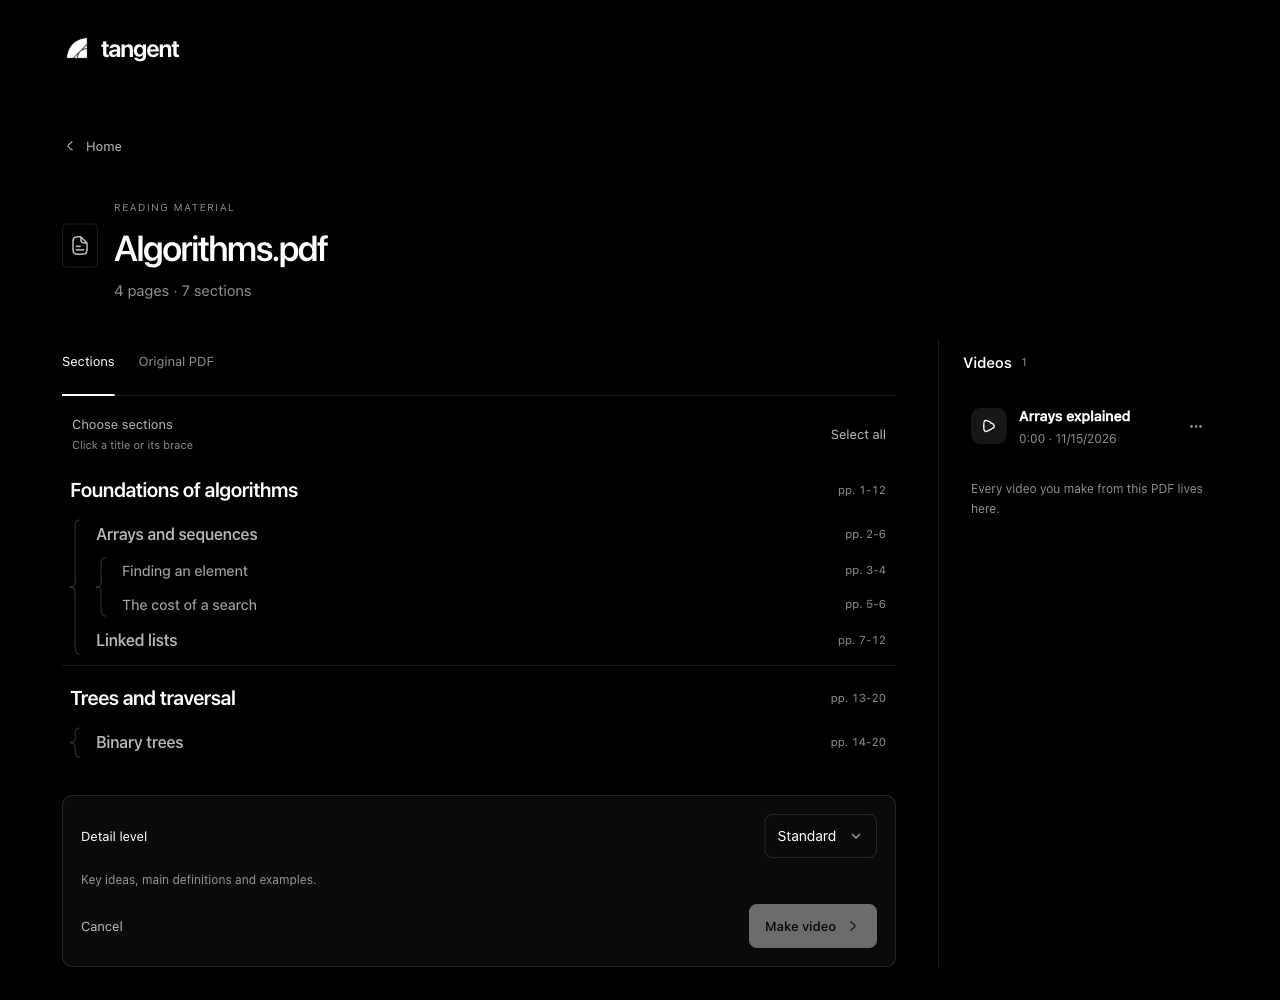
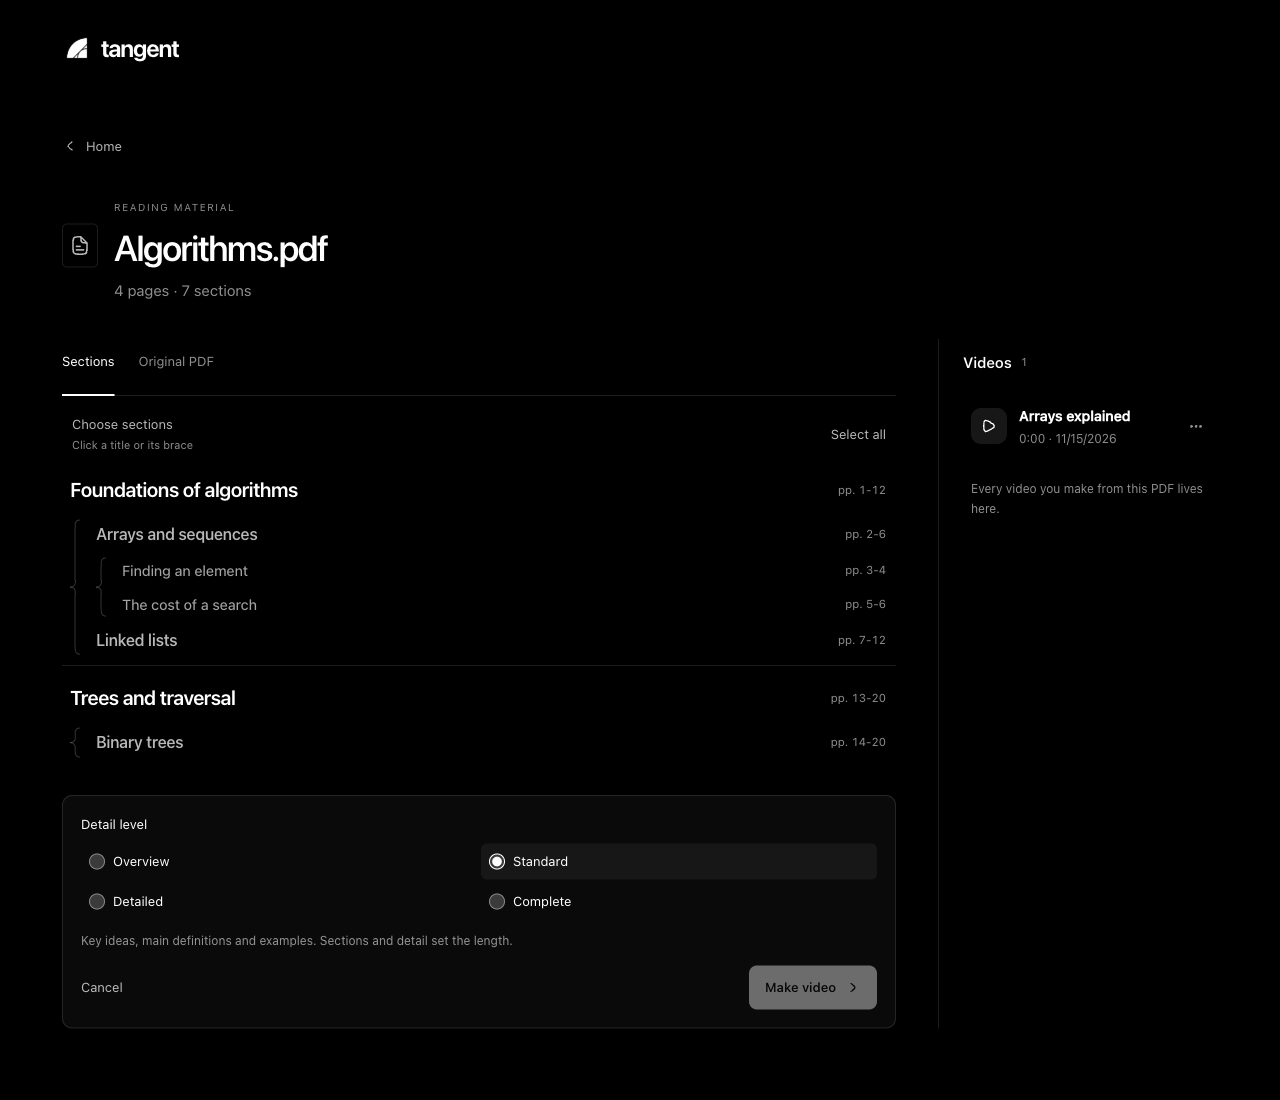
Update visual proof with current v1 detail controls

diff --git a/docs/areas/library.md b/docs/areas/library.md
@@ -17,7 +17,7 @@ Area note. Read with `CLAUDE.md`. Newest Log entries first, ≤ 6 lines each.
 - 2026-11-15 Make a video shows "about N min" beside Overview, Standard, Detailed and Complete. Length follows the sections you pick and the detail (`estimateMinutesFor` × 6.92 s/beat). Proof: Home and SourceView tests; Orca screenshot of the picker. Not verified: estimate vs a newly generated video.
 - 2026-11-16 Default Sections now reuses the existing SectionPicker in browse mode; Make a video switches the same component into selection, preserving the approved white hairline braces and heading/page layout.
   Browse exposes no selection state and keeps clicks inert; keyboard movement and reduced-motion CSS are retained, alongside multi-source selection.
-  Evidence: 47 passing tests and one existing skip across SectionPicker, SourceView, Home, sectionTree and App; TypeScript, static SourceView fixture and refreshed Orca screenshots `source-{browse,select,selected}.png`.
+  Evidence: 48 passing tests and one existing skip across SectionPicker, SourceView, Home, sectionTree and App; TypeScript, static SourceView fixture and refreshed Orca screenshots `source-{browse,select,selected}.png`.
   Not verified: native WKWebView, physical touch or screen reader; no model runs.
 
 - 2026-11-16 One video can take sections from a second source: "Add another source" on the picker, then back; the selected list names each source. Default one-source Make a video is unchanged. Bundles gain optional `source.id` / `source.also` and per-beat `sourceIds`; a bundle without them still replays. Evidence: SourceView and videos tests. Not verified: a real two-file generation.
